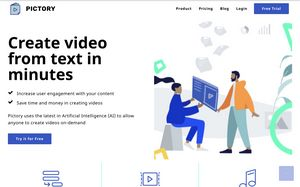
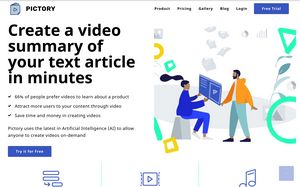
added video
added video

diff --git a/summary_video.html b/summary_video.html
@@ -181,7 +181,7 @@
                         <div class="mbr-flex items-list">
                                 
                                 <div class="icon-wrap">
-                                    <span class="amp-iconfont fa-check fa"><svg width="12" height="12" viewBox="0 0 1792 1792" xmlns="http://www.w3.org/2000/svg" fill="currentColor"><path d="M1671 566q0 40-28 68l-724 724-136 136q-28 28-68 28t-68-28l-136-136-362-362q-28-28-28-68t28-68l136-136q28-28 68-28t68 28l294 295 656-657q28-28 68-28t68 28l136 136q28 28 28 68z"></path></svg></span>
+                                    <span class="amp-iconfont fa-check fa"><svg width="100%" height="100%" viewBox="0 0 1792 1792" xmlns="http://www.w3.org/2000/svg" fill="currentColor"><path d="M1671 566q0 40-28 68l-724 724-136 136q-28 28-68 28t-68-28l-136-136-362-362q-28-28-28-68t28-68l136-136q28-28 68-28t68 28l294 295 656-657q28-28 68-28t68 28l136 136q28 28 28 68z"></path></svg></span>
                                 </div>
                                 <div class="list-box">
                                     
@@ -190,7 +190,7 @@
                             </div><div class="mbr-flex items-list">
                                 
                                 <div class="icon-wrap">
-                                    <span class="amp-iconfont fa-check fa"><svg width="12" height="12" viewBox="0 0 1792 1792" xmlns="http://www.w3.org/2000/svg" fill="currentColor"><path d="M1671 566q0 40-28 68l-724 724-136 136q-28 28-68 28t-68-28l-136-136-362-362q-28-28-28-68t28-68l136-136q28-28 68-28t68 28l294 295 656-657q28-28 68-28t68 28l136 136q28 28 28 68z"></path></svg></span>
+                                    <span class="amp-iconfont fa-check fa"><svg width="100%" height="100%" viewBox="0 0 1792 1792" xmlns="http://www.w3.org/2000/svg" fill="currentColor"><path d="M1671 566q0 40-28 68l-724 724-136 136q-28 28-68 28t-68-28l-136-136-362-362q-28-28-28-68t28-68l136-136q28-28 68-28t68 28l294 295 656-657q28-28 68-28t68 28l136 136q28 28 28 68z"></path></svg></span>
                                 </div>
                                 <div class="list-box">
                                     
@@ -199,7 +199,7 @@
                             </div><div class="mbr-flex items-list">
                                 
                                 <div class="icon-wrap">
-                                    <span class="amp-iconfont fa-check fa"><svg width="12" height="12" viewBox="0 0 1792 1792" xmlns="http://www.w3.org/2000/svg" fill="currentColor"><path d="M1671 566q0 40-28 68l-724 724-136 136q-28 28-68 28t-68-28l-136-136-362-362q-28-28-28-68t28-68l136-136q28-28 68-28t68 28l294 295 656-657q28-28 68-28t68 28l136 136q28 28 28 68z"></path></svg></span>
+                                    <span class="amp-iconfont fa-check fa"><svg width="100%" height="100%" viewBox="0 0 1792 1792" xmlns="http://www.w3.org/2000/svg" fill="currentColor"><path d="M1671 566q0 40-28 68l-724 724-136 136q-28 28-68 28t-68-28l-136-136-362-362q-28-28-28-68t28-68l136-136q28-28 68-28t68 28l294 295 656-657q28-28 68-28t68 28l136 136q28 28 28 68z"></path></svg></span>
                                 </div>
                                 <div class="list-box">
                                     
@@ -224,7 +224,7 @@
         <div class="mbr-row mbr-jc-b">
             <div class="box mbr-col-md-6 mbr-col-lg-4 align-center">
                 <div class="iconfont-wrapper">
-                    <span class="amp-iconfont animation-normal mbri-add-submenu"><svg version="1.1" xmlns="http://www.w3.org/2000/svg" width="80" height="80" viewBox="0 0 32 32" fill="currentColor">
+                    <span class="amp-iconfont animation-normal mbri-add-submenu"><svg version="1.1" xmlns="http://www.w3.org/2000/svg" width="100%" height="100%" viewBox="0 0 32 32" fill="currentColor">
 
 <path d="M2.667 2.667c-1.466 0-2.667 1.201-2.667 2.667v1.333c0 1.466 1.201 2.667 2.667 2.667h21.333c1.466 0 2.667-1.201 2.667-2.667v-1.333c0-1.466-1.201-2.667-2.667-2.667h-21.333zM2.667 4h21.333c0.75 0 1.333 0.583 1.333 1.333v1.333c0 0.75-0.583 1.333-1.333 1.333h-21.333c-0.75 0-1.333-0.583-1.333-1.333v-1.333c0-0.75 0.583-1.333 1.333-1.333zM2.667 21.983v2.667c0 0.349 0.318 0.667 0.667 0.667h6.417l-1.542 1.5c-0.617 0.617 0.347 1.528 0.917 0.958l2.667-2.667c0.256-0.248 0.256-0.711 0-0.958l-2.667-2.667c-0.547-0.547-1.53 0.345-0.917 0.958l1.542 1.542h-5.75v-2c0-0.905-1.333-0.873-1.333 0zM17.333 21.333c-1.466 0-2.667 1.201-2.667 2.667v1.333c0 1.466 1.201 2.667 2.667 2.667h12c1.466 0 2.667-1.201 2.667-2.667v-1.333c0-1.466-1.201-2.667-2.667-2.667h-12zM17.333 22.667h12c0.75 0 1.333 0.583 1.333 1.333v1.333c0 0.75-0.583 1.333-1.333 1.333h-12c-0.75 0-1.333-0.583-1.333-1.333v-1.333c0-0.75 0.583-1.333 1.333-1.333zM2.667 12c-1.466 0-2.667 1.201-2.667 2.667v1.333c0 1.466 1.201 2.667 2.667 2.667h21.333c1.466 0 2.667-1.201 2.667-2.667v-1.333c0-1.466-1.201-2.667-2.667-2.667h-21.333zM2.667 13.333h21.333c0.75 0 1.333 0.583 1.333 1.333v1.333c0 0.75-0.583 1.333-1.333 1.333h-21.333c-0.75 0-1.333-0.583-1.333-1.333v-1.333c0-0.75 0.583-1.333 1.333-1.333z"></path>
 </svg></span>
@@ -234,7 +234,7 @@
             </div>
             <div class="box mbr-col-md-6 mbr-col-lg-4 align-center">
                 <div class="iconfont-wrapper">
-                    <span class="amp-iconfont animation-normal mbri-video-play"><svg version="1.1" xmlns="http://www.w3.org/2000/svg" width="80" height="80" viewBox="0 0 32 32" fill="currentColor">
+                    <span class="amp-iconfont animation-normal mbri-video-play"><svg version="1.1" xmlns="http://www.w3.org/2000/svg" width="100%" height="100%" viewBox="0 0 32 32" fill="currentColor">
 
 <path d="M12.667 10.667c-0.389 0-0.667 0.295-0.667 0.667v9.333c-0.001 0.54 0.607 0.857 1.049 0.547l6.667-4.667c0.38-0.265 0.38-0.828 0-1.094l-6.667-4.667c-0.11-0.077-0.249-0.12-0.383-0.12zM13.333 12.615l4.836 3.385-4.836 3.385zM31.333 25.333h-1.333c-0.369 0-0.667 0.297-0.667 0.667s0.297 0.667 0.667 0.667h1.333c0.369 0 0.667-0.297 0.667-0.667s-0.297-0.667-0.667-0.667zM30 20c-0.369 0-0.667 0.297-0.667 0.667v2.667c0 0.369 0.297 0.667 0.667 0.667s0.667-0.297 0.667-0.667v-2.667c0-0.369-0.297-0.667-0.667-0.667zM30 13.333c-0.369 0-0.667 0.297-0.667 0.667v4c0 0.369 0.297 0.667 0.667 0.667s0.667-0.297 0.667-0.667v-4c0-0.369-0.297-0.667-0.667-0.667zM30 8c-0.369 0-0.667 0.297-0.667 0.667v2.667c0 0.369 0.297 0.667 0.667 0.667s0.667-0.297 0.667-0.667v-2.667c0-0.369-0.297-0.667-0.667-0.667zM31.333 5.333h-1.333c-0.369 0-0.667 0.297-0.667 0.667s0.297 0.667 0.667 0.667h1.333c0.369 0 0.667-0.297 0.667-0.667s-0.297-0.667-0.667-0.667zM0.667 25.333h1.333c0.369 0 0.667 0.297 0.667 0.667s-0.297 0.667-0.667 0.667h-1.333c-0.369 0-0.667-0.297-0.667-0.667s0.297-0.667 0.667-0.667zM2 20c0.369 0 0.667 0.297 0.667 0.667v2.667c0 0.369-0.297 0.667-0.667 0.667s-0.667-0.297-0.667-0.667v-2.667c0-0.369 0.297-0.667 0.667-0.667zM2 13.333c0.369 0 0.667 0.297 0.667 0.667v4c0 0.369-0.297 0.667-0.667 0.667s-0.667-0.297-0.667-0.667v-4c0-0.369 0.297-0.667 0.667-0.667zM2 8c0.369 0 0.667 0.297 0.667 0.667v2.667c0 0.369-0.297 0.667-0.667 0.667s-0.667-0.297-0.667-0.667v-2.667c0-0.369 0.297-0.667 0.667-0.667zM0.667 5.333h1.333c0.369 0 0.667 0.297 0.667 0.667s-0.297 0.667-0.667 0.667h-1.333c-0.369 0-0.667-0.297-0.667-0.667s0.297-0.667 0.667-0.667zM6 5.333c-1.096 0-2 0.904-2 2v17.333c0 1.096 0.904 2 2 2h20c1.096 0 2-0.904 2-2v-17.333c0-1.096-0.904-2-2-2zM6 6.667h20c0.381 0 0.667 0.286 0.667 0.667v17.333c0 0.381-0.286 0.667-0.667 0.667h-20c-0.381 0-0.667-0.286-0.667-0.667v-17.333c0-0.381 0.286-0.667 0.667-0.667z"></path>
 </svg></span>
@@ -244,7 +244,7 @@
             </div>
             <div class="box mbr-col-md-6 mbr-col-lg-4 align-center">
                 <div class="iconfont-wrapper">
-                    <span class="amp-iconfont animation-normal mbri-music"><svg version="1.1" xmlns="http://www.w3.org/2000/svg" width="80" height="80" viewBox="0 0 32 32" fill="currentColor">
+                    <span class="amp-iconfont animation-normal mbri-music"><svg version="1.1" xmlns="http://www.w3.org/2000/svg" width="100%" height="100%" viewBox="0 0 32 32" fill="currentColor">
 
 <path d="M28.646 0c-0.052 0.002-0.104 0.010-0.154 0.023l-14.667 4c-0.29 0.079-0.492 0.342-0.492 0.643v19.755c-0.16-0.155-0.314-0.315-0.495-0.451-1.095-0.822-2.564-1.305-4.172-1.305s-3.077 0.483-4.172 1.305c-1.095 0.822-1.828 2.017-1.828 3.362s0.733 2.54 1.828 3.362c1.095 0.822 2.564 1.305 4.172 1.305s3.077-0.483 4.172-1.305c1.095-0.822 1.828-2.017 1.828-3.362v-22.156l13.333-3.638v18.883c-0.16-0.155-0.314-0.315-0.495-0.451-1.095-0.822-2.564-1.305-4.172-1.305s-3.077 0.483-4.172 1.305c-1.095 0.822-1.828 2.017-1.828 3.362s0.733 2.54 1.828 3.362c1.095 0.822 2.564 1.305 4.172 1.305s3.077-0.483 4.172-1.305c1.095-0.822 1.828-2.017 1.828-3.362v-22.667c0-0.376-0.311-0.667-0.688-0.667zM25.995 5.331c-0.060 0.002-0.12 0.011-0.177 0.029l-9.333 2.667c-0.862 0.204-0.434 1.495 0.365 1.281l9.333-2.667c0.734-0.197 0.598-1.31-0.188-1.31zM23.333 20c1.338 0 2.537 0.413 3.372 1.039s1.294 1.43 1.294 2.294c0 0.864-0.459 1.668-1.294 2.294s-2.035 1.039-3.372 1.039c-1.338 0-2.537-0.413-3.372-1.039s-1.294-1.43-1.294-2.294c0-0.864 0.459-1.668 1.294-2.294s2.035-1.039 3.372-1.039zM8.667 24c1.338 0 2.537 0.413 3.372 1.039s1.294 1.43 1.294 2.294c0 0.864-0.459 1.668-1.294 2.294s-2.035 1.039-3.372 1.039c-1.338 0-2.537-0.413-3.372-1.039s-1.294-1.43-1.294-2.294c0-0.864 0.459-1.668 1.294-2.294s2.035-1.039 3.372-1.039z"></path>
 </svg></span>
@@ -286,19 +286,19 @@
                         
                     <a href="https://www.facebook.com/pictoryai" target="_blank" class="social">
                             <span class="iconfont-wrapper">
-                                <span class="amp-iconfont fa-facebook fa"><svg width="16" height="16" viewBox="0 0 1792 1792" xmlns="http://www.w3.org/2000/svg" fill="currentColor"><path d="M1343 12v264h-157q-86 0-116 36t-30 108v189h293l-39 296h-254v759h-306v-759h-255v-296h255v-218q0-186 104-288.5t277-102.5q147 0 228 12z"></path></svg></span>
+                                <span class="amp-iconfont fa-facebook fa"><svg width="100%" height="100%" viewBox="0 0 1792 1792" xmlns="http://www.w3.org/2000/svg" fill="currentColor"><path d="M1343 12v264h-157q-86 0-116 36t-30 108v189h293l-39 296h-254v759h-306v-759h-255v-296h255v-218q0-186 104-288.5t277-102.5q147 0 228 12z"></path></svg></span>
                             </span>
                         </a><a href="https://twitter.com/pictoryai" target="_blank" class="social">
                             <span class="iconfont-wrapper">
-                                <span class="amp-iconfont fa-twitter fa"><svg width="16" height="16" viewBox="0 0 1792 1792" xmlns="http://www.w3.org/2000/svg" fill="currentColor"><path d="M1684 408q-67 98-162 167 1 14 1 42 0 130-38 259.5t-115.5 248.5-184.5 210.5-258 146-323 54.5q-271 0-496-145 35 4 78 4 225 0 401-138-105-2-188-64.5t-114-159.5q33 5 61 5 43 0 85-11-112-23-185.5-111.5t-73.5-205.5v-4q68 38 146 41-66-44-105-115t-39-154q0-88 44-163 121 149 294.5 238.5t371.5 99.5q-8-38-8-74 0-134 94.5-228.5t228.5-94.5q140 0 236 102 109-21 205-78-37 115-142 178 93-10 186-50z"></path></svg></span>
+                                <span class="amp-iconfont fa-twitter fa"><svg width="100%" height="100%" viewBox="0 0 1792 1792" xmlns="http://www.w3.org/2000/svg" fill="currentColor"><path d="M1684 408q-67 98-162 167 1 14 1 42 0 130-38 259.5t-115.5 248.5-184.5 210.5-258 146-323 54.5q-271 0-496-145 35 4 78 4 225 0 401-138-105-2-188-64.5t-114-159.5q33 5 61 5 43 0 85-11-112-23-185.5-111.5t-73.5-205.5v-4q68 38 146 41-66-44-105-115t-39-154q0-88 44-163 121 149 294.5 238.5t371.5 99.5q-8-38-8-74 0-134 94.5-228.5t228.5-94.5q140 0 236 102 109-21 205-78-37 115-142 178 93-10 186-50z"></path></svg></span>
                             </span>
                         </a><a href="https://www.linkedin.com/company/pictory" target="_blank" class="social">
                             <span class="iconfont-wrapper">
-                                <span class="amp-iconfont fa-linkedin-square fa"><svg width="16" height="16" viewBox="0 0 1792 1792" xmlns="http://www.w3.org/2000/svg" fill="currentColor"><path d="M365 1414h231v-694h-231v694zm246-908q-1-52-36-86t-93-34-94.5 34-36.5 86q0 51 35.5 85.5t92.5 34.5h1q59 0 95-34.5t36-85.5zm585 908h231v-398q0-154-73-233t-193-79q-136 0-209 117h2v-101h-231q3 66 0 694h231v-388q0-38 7-56 15-35 45-59.5t74-24.5q116 0 116 157v371zm468-998v960q0 119-84.5 203.5t-203.5 84.5h-960q-119 0-203.5-84.5t-84.5-203.5v-960q0-119 84.5-203.5t203.5-84.5h960q119 0 203.5 84.5t84.5 203.5z"></path></svg></span>
+                                <span class="amp-iconfont fa-linkedin-square fa"><svg width="100%" height="100%" viewBox="0 0 1792 1792" xmlns="http://www.w3.org/2000/svg" fill="currentColor"><path d="M365 1414h231v-694h-231v694zm246-908q-1-52-36-86t-93-34-94.5 34-36.5 86q0 51 35.5 85.5t92.5 34.5h1q59 0 95-34.5t36-85.5zm585 908h231v-398q0-154-73-233t-193-79q-136 0-209 117h2v-101h-231q3 66 0 694h231v-388q0-38 7-56 15-35 45-59.5t74-24.5q116 0 116 157v371zm468-998v960q0 119-84.5 203.5t-203.5 84.5h-960q-119 0-203.5-84.5t-84.5-203.5v-960q0-119 84.5-203.5t203.5-84.5h960q119 0 203.5 84.5t84.5 203.5z"></path></svg></span>
                             </span>
                         </a><a href="https://www.youtube.com/channel/UCczYWT30Hodil89BYNjS8Fg" target="_blank" class="social">
                             <span class="iconfont-wrapper">
-                                <span class="amp-iconfont fa-youtube-play fa"><svg width="16" height="16" viewBox="0 0 1792 1792" xmlns="http://www.w3.org/2000/svg" fill="currentColor"><path d="M711 1128l484-250-484-253v503zm185-862q168 0 324.5 4.5t229.5 9.5l73 4q1 0 17 1.5t23 3 23.5 4.5 28.5 8 28 13 31 19.5 29 26.5q6 6 15.5 18.5t29 58.5 26.5 101q8 64 12.5 136.5t5.5 113.5v176q1 145-18 290-7 55-25 99.5t-32 61.5l-14 17q-14 15-29 26.5t-31 19-28 12.5-28.5 8-24 4.5-23 3-16.5 1.5q-251 19-627 19-207-2-359.5-6.5t-200.5-7.5l-49-4-36-4q-36-5-54.5-10t-51-21-56.5-41q-6-6-15.5-18.5t-29-58.5-26.5-101q-8-64-12.5-136.5t-5.5-113.5v-176q-1-145 18-290 7-55 25-99.5t32-61.5l14-17q14-15 29-26.5t31-19.5 28-13 28.5-8 23.5-4.5 23-3 17-1.5q251-18 627-18z"></path></svg></span>
+                                <span class="amp-iconfont fa-youtube-play fa"><svg width="100%" height="100%" viewBox="0 0 1792 1792" xmlns="http://www.w3.org/2000/svg" fill="currentColor"><path d="M711 1128l484-250-484-253v503zm185-862q168 0 324.5 4.5t229.5 9.5l73 4q1 0 17 1.5t23 3 23.5 4.5 28.5 8 28 13 31 19.5 29 26.5q6 6 15.5 18.5t29 58.5 26.5 101q8 64 12.5 136.5t5.5 113.5v176q1 145-18 290-7 55-25 99.5t-32 61.5l-14 17q-14 15-29 26.5t-31 19-28 12.5-28.5 8-24 4.5-23 3-16.5 1.5q-251 19-627 19-207-2-359.5-6.5t-200.5-7.5l-49-4-36-4q-36-5-54.5-10t-51-21-56.5-41q-6-6-15.5-18.5t-29-58.5-26.5-101q-8-64-12.5-136.5t-5.5-113.5v-176q-1-145 18-290 7-55 25-99.5t32-61.5l14-17q14-15 29-26.5t31-19.5 28-13 28.5-8 23.5-4.5 23-3 17-1.5q251-18 627-18z"></path></svg></span>
                             </span>
                         </a></div>
                 </div>
@@ -332,7 +332,7 @@
                     <h5 class="mbr-fonts-style mbr-semibold title-column display-4 align-left">Interested in a demo?</h5>
                     <!-- Form -->
                     <div class="column4__form" data-form-type="formoid">
-                        <form action-xhr="https://formoid.net/api/amp-form/push" method="POST" class="mbr-form" data-form-title="Mobirise Form"><input type="hidden" name="email" data-form-email="true" value="UmU7NX6gDLNNS+zqhUDPAdKnZZUBjjqRHATy92DzoORZh3C7JS+diU5y6vGFaM9yjH4y+8xLvfP9AyzM4vOx+VGTWcDD0f+M9hFDRbMICg/ICkSv7TG3UF72cXNgUU91.77ItO4Ojqh769E3wCy6Z8LYbHBqJJZWOjt6Nvb2EWkQ/4+ars7rZJh4T4bLpPrrI8xN7evvts243gvHjX6qNzZSuyHGSt8XLosjLaBB1deIBAiPzEd0r/efB8W1zSz81">
+                        <form action-xhr="https://formoid.net/api/amp-form/push" method="POST" class="mbr-form" data-form-title="Mobirise Form"><input type="hidden" name="email" data-form-email="true" value="T2zY/tVidhe9SzEPXTFKDBuh3QqOYUUokIPYISDltmnO03zdFbdRWzzcTMiJM2L0MpRixYaFmNNwgDRIiZ9KbNlFxRGu1A3SO25RcooTIryXulg6HXYao5JfEbsjYEme.dc3FK6+IQiZiYPm67VOZJ4VbvLWp/+ygBfMreMIvTw2oq5Hpg1Urk6hNobUuIoXqWkxL0E2YzAflPnNt7glfKi1zSFG/j2i7jxPk6JEbaqchB+xxI4tOZRNcgz0oH3Hw">
                             <div class="mbr-form-row">
                                 <div submit-success="" class="mbr-col-lg-12 mbr-col-md-12 mbr-col-sm-12">
                                     <template data-form-alert="" type="amp-mustache">We will get back to you soon!</template>

diff --git a/product.html b/product.html
@@ -177,7 +177,7 @@
                 <!-- mbr-icon -->
                 <div class="btn-wrap">
                     <div class="iconbox iconfont-wrapper" on="tap: video0.show, my-lightboxvideo11k0" role="button" tabindex="0">
-                        <span class="amp-iconfont fa-play fa"><svg width="100%" height="100%" viewBox="0 0 1792 1792" xmlns="http://www.w3.org/2000/svg" fill="currentColor"><path d="M1576 927l-1328 738q-23 13-39.5 3t-16.5-36v-1472q0-26 16.5-36t39.5 3l1328 738q23 13 23 31t-23 31z"></path></svg></span>
+                        <a href="https://youtu.be/crlKBt2QSr8"><span class="amp-iconfont fa-play fa"><svg width="24" height="24" viewBox="0 0 1792 1792" xmlns="http://www.w3.org/2000/svg" fill="currentColor"><path d="M1576 927l-1328 738q-23 13-39.5 3t-16.5-36v-1472q0-26 16.5-36t39.5 3l1328 738q23 13 23 31t-23 31z"></path></svg></span></a>
                     </div>
                     
                 </div>
@@ -461,19 +461,19 @@
                         
                     <a href="https://www.facebook.com/pictoryai" target="_blank" class="social">
                             <span class="iconfont-wrapper">
-                                <span class="amp-iconfont fa-facebook fa"><svg width="100%" height="100%" viewBox="0 0 1792 1792" xmlns="http://www.w3.org/2000/svg" fill="currentColor"><path d="M1343 12v264h-157q-86 0-116 36t-30 108v189h293l-39 296h-254v759h-306v-759h-255v-296h255v-218q0-186 104-288.5t277-102.5q147 0 228 12z"></path></svg></span>
+                                <span class="amp-iconfont fa-facebook fa"><svg width="16" height="16" viewBox="0 0 1792 1792" xmlns="http://www.w3.org/2000/svg" fill="currentColor"><path d="M1343 12v264h-157q-86 0-116 36t-30 108v189h293l-39 296h-254v759h-306v-759h-255v-296h255v-218q0-186 104-288.5t277-102.5q147 0 228 12z"></path></svg></span>
                             </span>
                         </a><a href="https://twitter.com/pictoryai" target="_blank" class="social">
                             <span class="iconfont-wrapper">
-                                <span class="amp-iconfont fa-twitter fa"><svg width="100%" height="100%" viewBox="0 0 1792 1792" xmlns="http://www.w3.org/2000/svg" fill="currentColor"><path d="M1684 408q-67 98-162 167 1 14 1 42 0 130-38 259.5t-115.5 248.5-184.5 210.5-258 146-323 54.5q-271 0-496-145 35 4 78 4 225 0 401-138-105-2-188-64.5t-114-159.5q33 5 61 5 43 0 85-11-112-23-185.5-111.5t-73.5-205.5v-4q68 38 146 41-66-44-105-115t-39-154q0-88 44-163 121 149 294.5 238.5t371.5 99.5q-8-38-8-74 0-134 94.5-228.5t228.5-94.5q140 0 236 102 109-21 205-78-37 115-142 178 93-10 186-50z"></path></svg></span>
+                                <span class="amp-iconfont fa-twitter fa"><svg width="16" height="16" viewBox="0 0 1792 1792" xmlns="http://www.w3.org/2000/svg" fill="currentColor"><path d="M1684 408q-67 98-162 167 1 14 1 42 0 130-38 259.5t-115.5 248.5-184.5 210.5-258 146-323 54.5q-271 0-496-145 35 4 78 4 225 0 401-138-105-2-188-64.5t-114-159.5q33 5 61 5 43 0 85-11-112-23-185.5-111.5t-73.5-205.5v-4q68 38 146 41-66-44-105-115t-39-154q0-88 44-163 121 149 294.5 238.5t371.5 99.5q-8-38-8-74 0-134 94.5-228.5t228.5-94.5q140 0 236 102 109-21 205-78-37 115-142 178 93-10 186-50z"></path></svg></span>
                             </span>
                         </a><a href="https://www.linkedin.com/company/pictory" target="_blank" class="social">
                             <span class="iconfont-wrapper">
-                                <span class="amp-iconfont fa-linkedin-square fa"><svg width="100%" height="100%" viewBox="0 0 1792 1792" xmlns="http://www.w3.org/2000/svg" fill="currentColor"><path d="M365 1414h231v-694h-231v694zm246-908q-1-52-36-86t-93-34-94.5 34-36.5 86q0 51 35.5 85.5t92.5 34.5h1q59 0 95-34.5t36-85.5zm585 908h231v-398q0-154-73-233t-193-79q-136 0-209 117h2v-101h-231q3 66 0 694h231v-388q0-38 7-56 15-35 45-59.5t74-24.5q116 0 116 157v371zm468-998v960q0 119-84.5 203.5t-203.5 84.5h-960q-119 0-203.5-84.5t-84.5-203.5v-960q0-119 84.5-203.5t203.5-84.5h960q119 0 203.5 84.5t84.5 203.5z"></path></svg></span>
+                                <span class="amp-iconfont fa-linkedin-square fa"><svg width="16" height="16" viewBox="0 0 1792 1792" xmlns="http://www.w3.org/2000/svg" fill="currentColor"><path d="M365 1414h231v-694h-231v694zm246-908q-1-52-36-86t-93-34-94.5 34-36.5 86q0 51 35.5 85.5t92.5 34.5h1q59 0 95-34.5t36-85.5zm585 908h231v-398q0-154-73-233t-193-79q-136 0-209 117h2v-101h-231q3 66 0 694h231v-388q0-38 7-56 15-35 45-59.5t74-24.5q116 0 116 157v371zm468-998v960q0 119-84.5 203.5t-203.5 84.5h-960q-119 0-203.5-84.5t-84.5-203.5v-960q0-119 84.5-203.5t203.5-84.5h960q119 0 203.5 84.5t84.5 203.5z"></path></svg></span>
                             </span>
                         </a><a href="https://www.youtube.com/channel/UCczYWT30Hodil89BYNjS8Fg" target="_blank" class="social">
                             <span class="iconfont-wrapper">
-                                <span class="amp-iconfont fa-youtube-play fa"><svg width="100%" height="100%" viewBox="0 0 1792 1792" xmlns="http://www.w3.org/2000/svg" fill="currentColor"><path d="M711 1128l484-250-484-253v503zm185-862q168 0 324.5 4.5t229.5 9.5l73 4q1 0 17 1.5t23 3 23.5 4.5 28.5 8 28 13 31 19.5 29 26.5q6 6 15.5 18.5t29 58.5 26.5 101q8 64 12.5 136.5t5.5 113.5v176q1 145-18 290-7 55-25 99.5t-32 61.5l-14 17q-14 15-29 26.5t-31 19-28 12.5-28.5 8-24 4.5-23 3-16.5 1.5q-251 19-627 19-207-2-359.5-6.5t-200.5-7.5l-49-4-36-4q-36-5-54.5-10t-51-21-56.5-41q-6-6-15.5-18.5t-29-58.5-26.5-101q-8-64-12.5-136.5t-5.5-113.5v-176q-1-145 18-290 7-55 25-99.5t32-61.5l14-17q14-15 29-26.5t31-19.5 28-13 28.5-8 23.5-4.5 23-3 17-1.5q251-18 627-18z"></path></svg></span>
+                                <span class="amp-iconfont fa-youtube-play fa"><svg width="16" height="16" viewBox="0 0 1792 1792" xmlns="http://www.w3.org/2000/svg" fill="currentColor"><path d="M711 1128l484-250-484-253v503zm185-862q168 0 324.5 4.5t229.5 9.5l73 4q1 0 17 1.5t23 3 23.5 4.5 28.5 8 28 13 31 19.5 29 26.5q6 6 15.5 18.5t29 58.5 26.5 101q8 64 12.5 136.5t5.5 113.5v176q1 145-18 290-7 55-25 99.5t-32 61.5l-14 17q-14 15-29 26.5t-31 19-28 12.5-28.5 8-24 4.5-23 3-16.5 1.5q-251 19-627 19-207-2-359.5-6.5t-200.5-7.5l-49-4-36-4q-36-5-54.5-10t-51-21-56.5-41q-6-6-15.5-18.5t-29-58.5-26.5-101q-8-64-12.5-136.5t-5.5-113.5v-176q-1-145 18-290 7-55 25-99.5t32-61.5l14-17q14-15 29-26.5t31-19.5 28-13 28.5-8 23.5-4.5 23-3 17-1.5q251-18 627-18z"></path></svg></span>
                             </span>
                         </a></div>
                 </div>
@@ -507,7 +507,7 @@
                     <h5 class="mbr-fonts-style mbr-semibold title-column display-4 align-left">Interested in a demo?</h5>
                     <!-- Form -->
                     <div class="column4__form" data-form-type="formoid">
-                        <form action-xhr="https://formoid.net/api/amp-form/push" method="POST" class="mbr-form" data-form-title="Mobirise Form"><input type="hidden" name="email" data-form-email="true" value="Tk0YbGiBJsHGnFUMN+zVijK79jfqMzZ8RyoIItCTRy0oIiEorSu+kKHUehUfQazhKpqN6r8QmvoB+9EFK+AP4ycBzT6fPr8gof8R0bKlWyfYtvCeoBMtanWNT8ePjsWx.jdPcvE0J3JKM1Irs2L6S7aWpZi7/sCdHull4KNT/RsJkQ5Vq/HAU8fwKfDH5AjZSKjpgKmwiiskyJACDeV5fu09Aghd0ciqXJhP54dYgKlFxGEkPhhRbU6vUq+df/C1L">
+                        <form action-xhr="https://formoid.net/api/amp-form/push" method="POST" class="mbr-form" data-form-title="Mobirise Form"><input type="hidden" name="email" data-form-email="true" value="X21eapAiQM/mrREDa3sp5bhIfUYW5Hw6CN4ICXQ/BmLfdETMlvhP/ppEECLnxNM0zCO/6n/HEoS2zKOrkGbYGtS+UQCLQdzxLgYYOwrsjnCaJ95tkUlyvXogJikiGx9e.BTW2WbV3s1RwXMmOeU0Fmn4TPb7RG+APUYzZ89cVjYoMgw/hNU7NUI9TutrAnThruZ/vbudsXat0bIGzsfZ33MtZOaUE4DhwezH8s2MJN+NubOWLjOrJH4ILhB1kwKh7">
                             <div class="mbr-form-row">
                                 <div submit-success="" class="mbr-col-lg-12 mbr-col-md-12 mbr-col-sm-12">
                                     <template data-form-alert="" type="amp-mustache">We will get back to you soon!</template>

diff --git a/pricing.html b/pricing.html
@@ -537,7 +537,7 @@
         <div class="row">
             <div class="mbr-col-lg-8 mbr-ml-auto mbr-mr-auto mbr-form" data-form-type="formoid">
 <!--Formbuilder Form-->
-<form method="POST" class="mbr-form" action-xhr="https://formoid.net/api/amp-form/push" data-form-title="Form Name"><input type="hidden" name="email" data-form-email="true" value="pfDP96aiZhuE5rKPkgEN9Ps2usjRtmn90rm3E4S7JqzRoXt4u7rtFTCx1yz1RXhc/J9YqxKyd2nuNgAwuwTe0k6HIaB25YS3+OSjeLz2A635Ajh1mthcNZTbTvg3Qr2y.YH7LIIj13vwQcidnBBWS/u5yifVJOyTSVtEoRHW/7yd88p3N7G2SrszcE6jYmjzDDuS2vfm7aPNOrkV/V3s9/6Jqy3JSR0f5LiU1v28tiSzVZ6kgRkqVsofukBu7yKE=">
+<form method="POST" class="mbr-form" action-xhr="https://formoid.net/api/amp-form/push" data-form-title="Form Name"><input type="hidden" name="email" data-form-email="true" value="DSNugdpqZv5qHtIxKrKRcumIJH4DIFbU13J067fgmVmV59mQA5ETrbq9f2ZLcfyhmsay5ozA+dnxgPCqcqFjDPUG5HpMDKnlxnS4omtTuVvMPZU8Ten640lCCfi/Z6NO.Jm7h+WDm2WqjXp2CUHFdCcKlAFxnprRiQ4C588wCE8+BbguPFyNjQCIfpFKRtt9y2Lz7IETzWtvyYwoyfjsUyRkU6Mflp6wgQq8ajTjw3VykzcAtj6H4rjpp/GZ5UGOO">
 <div class="mbr-row">
 <div submit-success="" class="mbr-col-lg-12 mbr-col-md-12 mbr-col-sm-12">
 <template data-form-alert="" type="amp-mustache">Thanks for your interest in Pictory. We will contact you shortly.</template>
@@ -659,7 +659,7 @@
                     <h5 class="mbr-fonts-style mbr-semibold title-column display-4 align-left">Interested in a demo?</h5>
                     <!-- Form -->
                     <div class="column4__form" data-form-type="formoid">
-                        <form action-xhr="https://formoid.net/api/amp-form/push" method="POST" class="mbr-form" data-form-title="Mobirise Form"><input type="hidden" name="email" data-form-email="true" value="o3xhaurHS4cpTXJJ7we/kRL+WibJ2OzAn5Sc6I7+W6DQa+PA2wVB1CqxahGIXwUMxxP/Bh5hMDrFkfVEVOmqmwOgXkm/RuAaDWr7n5Xw/cXMuW5i+taFVwZxjGlwlNQy.egNiIlj64OjBOOFxLYHUqdaliiDxlXMXk5+r2AoiR6nvNY93oStOQsNuvd+AXT/KWgpvTE1qJkq3qLhO5dfNzKjf6o9/HLKIkgv9qXEae5ZRLQdeqBsWPRMq3EjYuwbT">
+                        <form action-xhr="https://formoid.net/api/amp-form/push" method="POST" class="mbr-form" data-form-title="Mobirise Form"><input type="hidden" name="email" data-form-email="true" value="ifVKHRnEQQwVQJZ9jjnWbmZTe8cMvgsYqbqNOKPYULL1YzF2GxsyMJLQPZbI1GTdyjkdlkpNNQ4ngMJq6LXCCCImB5cl0InJyYHVPeAtcvrI2OaqUMx2dv5A7PB03rYR.kwlfGTe4M3mvVF5U2Wa0XoJWOffgEdOT5KFKF7ooJwgLS+jpx74vXHq+3tiztnwy8N/nT4uVlPiOzb7pqg3hqAfSyJD9PCia+G37cUSCw5homDJJ4Xycceh/T6gF2xxR">
                             <div class="mbr-form-row">
                                 <div submit-success="" class="mbr-col-lg-12 mbr-col-md-12 mbr-col-sm-12">
                                     <template data-form-alert="" type="amp-mustache">We will get back to you soon!</template>

diff --git a/b2b_marketing_blog.html b/b2b_marketing_blog.html
@@ -308,7 +308,7 @@
                     <h5 class="mbr-fonts-style mbr-semibold title-column display-4 align-left">Interested in a demo?</h5>
                     <!-- Form -->
                     <div class="column4__form" data-form-type="formoid">
-                        <form action-xhr="https://formoid.net/api/amp-form/push" method="POST" class="mbr-form" data-form-title="Mobirise Form"><input type="hidden" name="email" data-form-email="true" value="riiEgrhtEvAf/zJDd10QkMB4ltRRyMqBX8qblUV4qaDpfpPyHe6Bi/Irrr8cud50TUonyARL3+nlzawLBtcp1bnDPqRgaxw195OxRaDka2ufKE9sI0Z+HMGJmtDQQxmf.mCv+4ZtQ2XPjl3nWUULfbhRUKA6W9dBWR0fYhx/2IX9IgdorxuIigQxJ+PkWg3LHRld0Ci1NCpU+FOG9fnmf7wOL6xc1YNZ6aO2HAxJDEeGPw5z93dwh/KPYeDY39qwM">
+                        <form action-xhr="https://formoid.net/api/amp-form/push" method="POST" class="mbr-form" data-form-title="Mobirise Form"><input type="hidden" name="email" data-form-email="true" value="R8BUElaa7o+4rGs4ZXeC2NGr3FfMfRT5ttqnRl48jHBpG6WdlhVFIjcOviWqFCowWxUcBG7kiNN9ShbHyTcfPWvflwYwjMGuexkmrf14aGPEOHTlNvPfQcfymy/hgrp1.ZHXkpqLbEBGQqyLY/2zIbBrhtTjxvQ1e3DVIsRsBaqA5v2eljGVYYwwzFv5uvt24HAU4Sv0uyTSGGiAz7iV8xEMl4lVQe3oR+d9eD3fGL9OO+0vpnVS/82U2D9xznaZe">
                             <div class="mbr-form-row">
                                 <div submit-success="" class="mbr-col-lg-12 mbr-col-md-12 mbr-col-sm-12">
                                     <template data-form-alert="" type="amp-mustache">We will get back to you soon!</template>

diff --git a/blog.html b/blog.html
@@ -351,7 +351,7 @@
                     <h5 class="mbr-fonts-style mbr-semibold title-column display-4 align-left">Interested in a demo?</h5>
                     <!-- Form -->
                     <div class="column4__form" data-form-type="formoid">
-                        <form action-xhr="https://formoid.net/api/amp-form/push" method="POST" class="mbr-form" data-form-title="Mobirise Form"><input type="hidden" name="email" data-form-email="true" value="upkFl7sWcKrJsbu06MdglRisBLgD2AThEsbsLdEe7CPAZvGRwX6hePhkWl73eZ6H77+oTAwErdAMv/8dFP1oXUkEQQoJpelzmewebXATa4lmsc15vNPO4sDe7z3IfQaU.zUdLxd06Rs7EqtXoX6vyI+YRF1pTrYCQwwmBo7UlkrM3THX7rGvqtv6DDT5as3ofDV3j78wEbJzUIhLMiV1SsM7pjmqqSZYOdvlw6seB7DQOhFTZTdRESDBHCeiSrhqE">
+                        <form action-xhr="https://formoid.net/api/amp-form/push" method="POST" class="mbr-form" data-form-title="Mobirise Form"><input type="hidden" name="email" data-form-email="true" value="2Ad+0x7d/lm5IRnrWWw+M7mHRCeMDyclLDtvduJ1Hy3+Kh2zgH7VuSEEE3HBMnGz8WA8VAgiHO7TR2zWhkob4CQRI5OYEpu9K9o54gegbO8Mikps9V0l2W1ylV7oiwlu.vETH5UcT8oX0KWjnLGHnu0db6DEf2fGYsIPXz3WqI6T7KapdidUddN4tgh9l+vssn4Rps4icH6VJA8dVo/1NLQWL7Ty7IDcWGn1VDs6b0XgTtmd1zQg76a8QypYmhhVg">
                             <div class="mbr-form-row">
                                 <div submit-success="" class="mbr-col-lg-12 mbr-col-md-12 mbr-col-sm-12">
                                     <template data-form-alert="" type="amp-mustache">We will get back to you soon!</template>

diff --git a/blog_to_video.html b/blog_to_video.html
@@ -332,7 +332,7 @@
                     <h5 class="mbr-fonts-style mbr-semibold title-column display-4 align-left">Interested in a demo?</h5>
                     <!-- Form -->
                     <div class="column4__form" data-form-type="formoid">
-                        <form action-xhr="https://formoid.net/api/amp-form/push" method="POST" class="mbr-form" data-form-title="Mobirise Form"><input type="hidden" name="email" data-form-email="true" value="s/5sUZiitf5XHaw2CBzjQG6LwPOKxAIJrgXJDMKFaFOhiagh8BweCqIzkMjHeKgJL+FkviaUEYe047BCVv0zTQTqhUAdSTdPHJmQBdsVxESNbrP4oxrJ06O1rCXBnA+v.PrmJU/Qxn2jOl+i3mEoeCCbDLE/PghQpd88zu1u/6ZN48pHWV/lM0AchnzIfSZvTeaPrMcBI0LSg+GEc/Mj5sNCPNktRNgKrJV85KkEUkDHtdzxDXQCrllWytiuFXROb">
+                        <form action-xhr="https://formoid.net/api/amp-form/push" method="POST" class="mbr-form" data-form-title="Mobirise Form"><input type="hidden" name="email" data-form-email="true" value="eYInuQoIOc7kPwRNcXRIKICJx8rehgN8tNVI4WxSL+/ckmcGNEeCsCwSSXIa5cmPI6nVeZ9p5PXQBdN0BkI7EBGiHlI6sz/RX6izE1BBSzfhmct8p6DEJ7g7i7VtN97+.GJCi2baRXTaPIm88M0LFKUy+ZC0k4cTeVXen/8z7fJWYskfPiRQjdhjP7qysGgSGJIRJvYVwGo0cCpdEozWPw87OXGEecAVRGYABDP8XjyLSy0XK7kB3qt1EaTIWXsfX">
                             <div class="mbr-form-row">
                                 <div submit-success="" class="mbr-col-lg-12 mbr-col-md-12 mbr-col-sm-12">
                                     <template data-form-alert="" type="amp-mustache">We will get back to you soon!</template>

diff --git a/index.html b/index.html
@@ -773,7 +773,7 @@
                     <h5 class="mbr-fonts-style mbr-semibold title-column display-4 align-left">Interested in a demo?</h5>
                     <!-- Form -->
                     <div class="column4__form" data-form-type="formoid">
-                        <form action-xhr="https://formoid.net/api/amp-form/push" method="POST" class="mbr-form" data-form-title="Mobirise Form"><input type="hidden" name="email" data-form-email="true" value="ba8W+N8hAwqxbi1d3tOFAmwH49RbhkMtjXLXp72/vibyf6l2oF3Btzc1sWJHPhL7Z0nUZiOsWWKytfq8fLiNz5Y4d0ckiJ/YMF0wB4HjihiJXkfEg8LrZxJf+2RQLgRq.BW2OzQF75IMKihO7JxtFQqnL4pKpqzNp5E8P9jwBl2CKeq+aAbGwwJfDLECsOU8tTd5D0O76R6OO/AEJMIfL1tEtI+CD/7Nz4OcFBhYBAGpb2fYgyfgZKjPovDXw4bMU">
+                        <form action-xhr="https://formoid.net/api/amp-form/push" method="POST" class="mbr-form" data-form-title="Mobirise Form"><input type="hidden" name="email" data-form-email="true" value="Fe7Apf6z5F3VzrQM+sswt4LK+RhHDdKlmDfmaQmJz+KaKtNgTznJjjve2PIl8LViyRWwUP6qu+44o2/1/7xgoxrlTBrGyWZqJ19suj1ZWy0nYITHwm6hjNupT1rybyzD.OExDeUX2jUyvlLAgINpnGvJmUbdAeB7oKgA10KRZ61bQw/19lbCxOcMVEEqItk+/jpJ8Fc0zRYzmn93oKUCocUPcXiOmw1PLt+URZtS9/MmL/Ts7+Cfz6rK/2fvnOTy5">
                             <div class="mbr-form-row">
                                 <div submit-success="" class="mbr-col-lg-12 mbr-col-md-12 mbr-col-sm-12">
                                     <template data-form-alert="" type="amp-mustache">We will get back to you soon!</template>

diff --git a/pictory_is_now_GA.html b/pictory_is_now_GA.html
@@ -314,7 +314,7 @@
                     <h5 class="mbr-fonts-style mbr-semibold title-column display-4 align-left">Interested in a demo?</h5>
                     <!-- Form -->
                     <div class="column4__form" data-form-type="formoid">
-                        <form action-xhr="https://formoid.net/api/amp-form/push" method="POST" class="mbr-form" data-form-title="Mobirise Form"><input type="hidden" name="email" data-form-email="true" value="0B2vPWCIYYJrHEpXetVGb3xWQDvFqhMkLlu/F3P9EZ33xeqr912PaJD1OkI8NzMcyFKZTIiBDggYZ6P1zE31BCZtj//Nonq9ZpLOkpGXYmdukJWt+BTt9T1chuykKAvt.Snbzr1QgHJA8AF0ZwhINIseOGpNg+jloXLiGD/VXpYr7YDefKrtzy5h4bZidULa1p1wWw95/s1XCu8jcSsmOafki6dBftxG9OgS2sWJg7l4iOCV9XeXFDyJBqi+Ja35t">
+                        <form action-xhr="https://formoid.net/api/amp-form/push" method="POST" class="mbr-form" data-form-title="Mobirise Form"><input type="hidden" name="email" data-form-email="true" value="EkeOkXne5aLicGcBPb4KfX2uSICEqT/0hX+w0bcVYFSNdOj+qdijSl4X0zUl0shfQnff0oNjT97EYY0QaMazzST2WGBJYKXfAOpNgwSPikt/osLLA4sN0UeL9RieW0Po.u6mYnB34P27VdJCcluliu2M47uVohsdH2w64AFmW809MHPgTZuXivQBIXvzAmZBW+eQMKO7S5ATp7/Jt2+d5YlqYp3WQIL6/tCfSI0xweZprVLw6dKyAD3kGXxRBnhXa">
                             <div class="mbr-form-row">
                                 <div submit-success="" class="mbr-col-lg-12 mbr-col-md-12 mbr-col-sm-12">
                                     <template data-form-alert="" type="amp-mustache">We will get back to you soon!</template>

diff --git a/policy.html b/policy.html
@@ -260,7 +260,7 @@
                     <h5 class="mbr-fonts-style mbr-semibold title-column display-4 align-left">Interested in a demo?</h5>
                     <!-- Form -->
                     <div class="column4__form" data-form-type="formoid">
-                        <form action-xhr="https://formoid.net/api/amp-form/push" method="POST" class="mbr-form" data-form-title="Mobirise Form"><input type="hidden" name="email" data-form-email="true" value="NKK1gfU9CGRaX1NNCK3pNEDRkTpFaRjQ/CAtlPHnB3IT77DtrzA+BOpW8obmC362wwClHPtiHoa0H22+W+8W80R3rskP49ad64WOyaJBja8taXIx/6yF4hmTZYKn67Pm.K4WlAX7tr3YY5Wk7vb6MU9mVSZvwZvfsdzu63f2UAkwI/8A8sWO85jmxBC4FO4np1l0fPOo8ZBZNEFGIyRmWnNXiIHZMjyw2qxkT9IqbbBiY8xljCzs2fv4Zh3lBheHM">
+                        <form action-xhr="https://formoid.net/api/amp-form/push" method="POST" class="mbr-form" data-form-title="Mobirise Form"><input type="hidden" name="email" data-form-email="true" value="3T2amdhmeccwb/6Rfp+wlrNuVsQHfU+C7ua4H9qSz0ut6bkpS19F/+3wpGubsfnMFiLkynQ91J2h8zOaRfxmxQevnf+gbE9gcf3gqk/SgYF3MCOCAzzjvilptC+Q4gyB.oDobd/zRYMvokaNBG13dup09Fz8kzOCO2guSY1EtohfaFHzbbPZVfsTBFfArrRzelXWstT7fz+7ldurARQbdif5+v6vkKVLq7rPVHZ9jjxFec2AHSdfCx0NVbLHgR0rK">
                             <div class="mbr-form-row">
                                 <div submit-success="" class="mbr-col-lg-12 mbr-col-md-12 mbr-col-sm-12">
                                     <template data-form-alert="" type="amp-mustache">We will get back to you soon!</template>

diff --git a/terms.html b/terms.html
@@ -260,7 +260,7 @@
                     <h5 class="mbr-fonts-style mbr-semibold title-column display-4 align-left">Interested in a demo?</h5>
                     <!-- Form -->
                     <div class="column4__form" data-form-type="formoid">
-                        <form action-xhr="https://formoid.net/api/amp-form/push" method="POST" class="mbr-form" data-form-title="Mobirise Form"><input type="hidden" name="email" data-form-email="true" value="FCY97npdawOs90MT4OhThUgVwkYKp55q4brH+XmMS/CZWC5HmhNOrP/E1RwGPyeR/hRxZdrV8xGaQCmSb+3T/CQXVCZMhFb4XXPK94Uoz+q9JEDvwSWGGp2VYoyPigbb.VnXLSgjBST8ejSRBrLn/K67b9qZMgyHI6sBu1GCfnguyPlBX5kSS7OIKJBl6Fz87VILomWSgOj/U+DxVxL7L/jYiJeI1tPixEMz9zkbbMzyKqU32grO37RRU4440UNDn">
+                        <form action-xhr="https://formoid.net/api/amp-form/push" method="POST" class="mbr-form" data-form-title="Mobirise Form"><input type="hidden" name="email" data-form-email="true" value="4Ud7aqyKSYkHQs0D6Mn/z98j6kBywZZTCqt2u7Mvv+kNk5iNlxj6vKDWPLyfSbaYe6KeKiI18ORgBcgmiTO+7VYm1nXdltLbOUAbP8cbs4gwPY/MMnE6IoPXTQVgDgQS.RV0u2QbzUDnsLjp/j3DnpvfgdCUDg/SqnAJQ9J4wF7dGq6KqUKXrhBmSCJnk8ccYXZmsKpMC+wlo5gS6ouGC4Hgk5zu8TGC4Pxg/9pf8YWGZij5vaXp4V/cKm5v+Dp38">
                             <div class="mbr-form-row">
                                 <div submit-success="" class="mbr-col-lg-12 mbr-col-md-12 mbr-col-sm-12">
                                     <template data-form-alert="" type="amp-mustache">We will get back to you soon!</template>

diff --git a/thanks.html b/thanks.html
@@ -278,7 +278,7 @@
                     <h5 class="mbr-fonts-style mbr-semibold title-column display-4 align-left">Interested in a demo?</h5>
                     <!-- Form -->
                     <div class="column4__form" data-form-type="formoid">
-                        <form action-xhr="https://formoid.net/api/amp-form/push" method="POST" class="mbr-form" data-form-title="Mobirise Form"><input type="hidden" name="email" data-form-email="true" value="wfIe1+Kntb4aI1ETfI3jQm0aKfG86u3NO+JwX13LbJtV29A3XdRk4gxhqYRuBGbvNHpE0mz8D2hCRBxrS1yJ9ts094AnPxQ3MATcqRWHa2xIV8jIeQBP5C3uJPtk1Pux.DGD+mzJvFFAyN2+CX5LrpcEJjDC99iDaOE/yWlFwbaTKzwSk9mRJ3wrD40CZqvbCUKCMPVW4SmVGJU7bt7nGRDx1ptnPwK4HOaqecJhhU0tE4l6e0QbKI3lwFS9XTmX8">
+                        <form action-xhr="https://formoid.net/api/amp-form/push" method="POST" class="mbr-form" data-form-title="Mobirise Form"><input type="hidden" name="email" data-form-email="true" value="z52ReOxkce6Jijqsd013uXr3Bhs275YioLcFd9pNJtFIvt0PfBb0Naq5ao5VwZ5RVjSLPOABq/UtDqeAhFWxI2eRZl4UOJCwEzshBaYKlFePvrrtrHXgbkBG39seGOwx.zLwWJWRRsWNPRZQLH0FHk22JogU92fdYjrv/tp3jYcXgAoUvH2QH1r6kiK/ry8fe9UAUM9LCNX6fVy1PiOrP1p4LXcJV+893eISLWwoGC6hW18LAwUSxp0nzp1CjPlWh">
                             <div class="mbr-form-row">
                                 <div submit-success="" class="mbr-col-lg-12 mbr-col-md-12 mbr-col-sm-12">
                                     <template data-form-alert="" type="amp-mustache">We will get back to you soon!</template>
